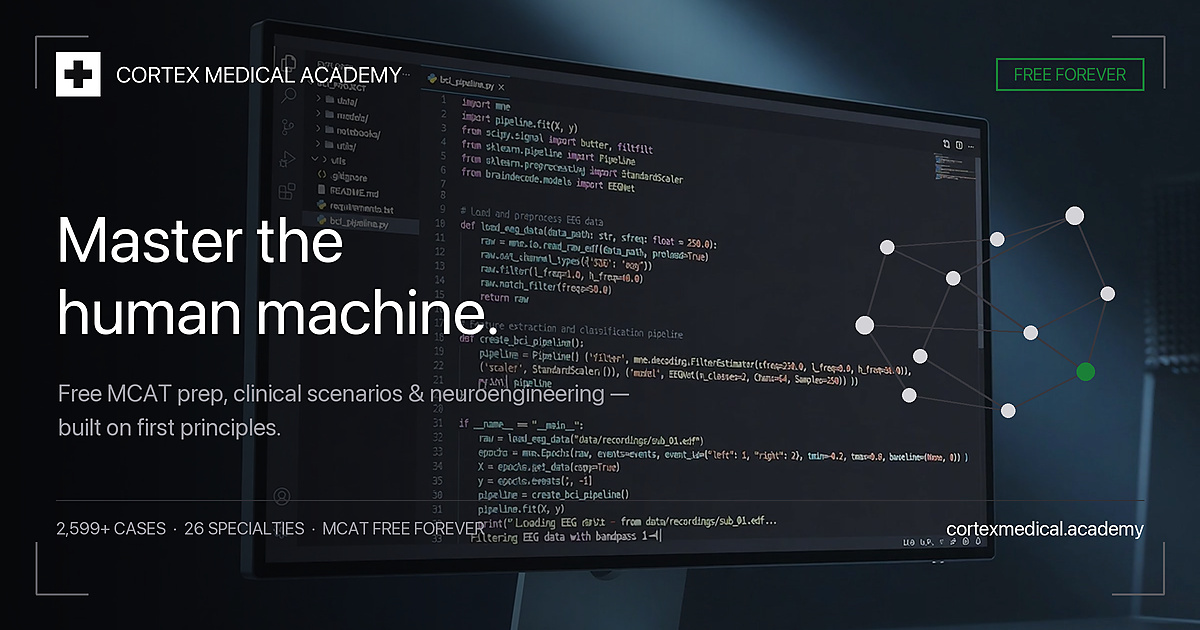
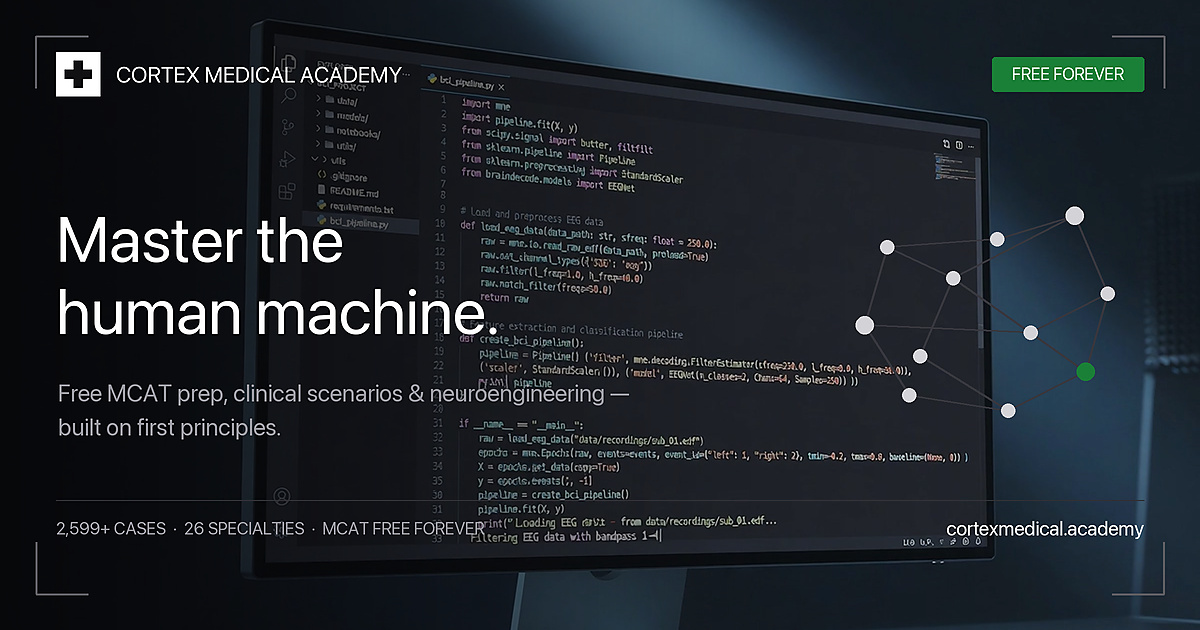
Polish OG card: centered FREE FOREVER pill (og-v4)
- Green filled pill with white text, rounded corners
- Center-anchored bbox + optical vertical nudge
- Meta tags point to og-v4.jpg for X cache bust

Changed region(s): [[0.8017, 0.0905, 0.9558, 0.1508]]

diff --git a/index.html b/index.html
@@ -9,7 +9,7 @@
   <meta name="twitter:creator" content="@Kevin_Vigil">
   <meta name="twitter:title" content="Cortex Medical Academy — MCAT, Clinical Scenarios &amp; Neuroengineering">
   <meta name="twitter:description" content="Evidence-based MCAT prep, free forever. Clinical scenarios across 26 specialties. Neuroengineering course with BCI Builder Path and Python OJT labs.">
-  <meta name="twitter:image" content="https://cortexmedical.academy/og-v3.jpg">
+  <meta name="twitter:image" content="https://cortexmedical.academy/og-v4.jpg">
   <meta name="twitter:image:width" content="1200">
   <meta name="twitter:image:height" content="630">
   <meta property="og:type" content="website">
@@ -17,13 +17,13 @@
   <meta property="og:url" content="https://cortexmedical.academy/">
   <meta property="og:title" content="Cortex Medical Academy — MCAT, Clinical Scenarios &amp; Neuroengineering">
   <meta property="og:description" content="Evidence-based MCAT prep, free forever. Clinical scenarios across 26 specialties. Neuroengineering course with BCI Builder Path and Python OJT labs.">
-  <meta property="og:image" content="https://cortexmedical.academy/og-v3.jpg">
-  <meta property="og:image:secure_url" content="https://cortexmedical.academy/og-v3.jpg">
+  <meta property="og:image" content="https://cortexmedical.academy/og-v4.jpg">
+  <meta property="og:image:secure_url" content="https://cortexmedical.academy/og-v4.jpg">
   <meta property="og:image:type" content="image/jpeg">
   <meta property="og:image:width" content="1200">
   <meta property="og:image:height" content="630">
   <meta property="og:image:alt" content="Cortex Medical Academy — Master the human machine. Free MCAT prep, clinical scenarios, and neuroengineering.">
-  <link rel="image_src" href="https://cortexmedical.academy/og-v3.jpg">
+  <link rel="image_src" href="https://cortexmedical.academy/og-v4.jpg">
   <title>Free MCAT Prep — Practice Questions, Flashcards & CARS | Cortex Medical Academy</title>
   <meta name="description" content="Free, evidence-based MCAT prep: 260+ practice questions with answer breakdowns, 500+ spaced-repetition flashcards, original CARS & science passages, and full-length exam simulation. No account, no paywall — free forever.">
   <meta name="keywords" content="free MCAT prep, MCAT practice questions, MCAT flashcards, CARS practice, MCAT science passages, MCAT exam simulator, free MCAT study, MCAT spaced repetition">
@@ -43,7 +43,7 @@
         "@id": "https://cortexmedical.academy/#org",
         "name": "Cortex Medical Academy",
         "url": "https://cortexmedical.academy/",
-        "logo": "https://cortexmedical.academy/og-v3.jpg",
+        "logo": "https://cortexmedical.academy/og-v4.jpg",
         "description": "Free, evidence-based MCAT preparation and clinical training — built on first principles, free for everyone.",
         "founder": { "@type": "Person", "name": "Kevin Vigil" },
         "sameAs": ["https://x.com/kevin__vigil"]

diff --git a/share.html b/share.html
@@ -10,15 +10,15 @@
   <meta name="twitter:site" content="@Kevin_Vigil">
   <meta name="twitter:title" content="Cortex Medical Academy — MCAT, Clinical Scenarios &amp; Neuroengineering">
   <meta name="twitter:description" content="Evidence-based MCAT prep, free forever. Clinical scenarios across 26 specialties. Neuroengineering with BCI Builder Path and Python OJT labs.">
-  <meta name="twitter:image" content="https://cortexmedical.academy/og-v3.jpg">
+  <meta name="twitter:image" content="https://cortexmedical.academy/og-v4.jpg">
   <meta name="twitter:image:width" content="1200">
   <meta name="twitter:image:height" content="630">
   <meta property="og:type" content="website">
   <meta property="og:url" content="https://cortexmedical.academy/share">
   <meta property="og:title" content="Cortex Medical Academy — MCAT, Clinical Scenarios &amp; Neuroengineering">
   <meta property="og:description" content="Evidence-based MCAT prep, free forever. Clinical scenarios across 26 specialties. Neuroengineering with BCI Builder Path and Python OJT labs.">
-  <meta property="og:image" content="https://cortexmedical.academy/og-v3.jpg">
-  <meta property="og:image:secure_url" content="https://cortexmedical.academy/og-v3.jpg">
+  <meta property="og:image" content="https://cortexmedical.academy/og-v4.jpg">
+  <meta property="og:image:secure_url" content="https://cortexmedical.academy/og-v4.jpg">
   <meta property="og:image:type" content="image/jpeg">
   <meta property="og:image:width" content="1200">
   <meta property="og:image:height" content="630">

diff --git a/scripts/generate-social-card.py b/scripts/generate-social-card.py
@@ -14,6 +14,7 @@ OUT = ROOT / "social-card.png"
 OG_JPG = ROOT / "og.jpg"
 OG_V2 = ROOT / "og-v2.jpg"
 OG_V3 = ROOT / "og-v3.jpg"
+OG_V4 = ROOT / "og-v4.jpg"
 VIDEO = ROOT / "assets" / "neuro-bg.mp4"
 FRAME = ROOT / "scripts" / ".og-frame.jpg"
 
@@ -141,21 +142,33 @@ def draw_outlined_pill(
     text: str,
     font: ImageFont.FreeTypeFont,
     *,
-    right: int,
-    top: int,
+    cx: int,
+    cy: int,
     pad_x: int,
     pad_y: int,
     outline: tuple[int, int, int],
-    fill: tuple[int, int, int],
+    text_fill: tuple[int, int, int],
+    bg_fill: tuple[int, int, int] | None,
     border: int,
-) -> None:
-    bbox = draw.textbbox((0, 0), text, font=font)
+    radius: int = 0,
+) -> tuple[int, int, int, int]:
+    """Draw a pill centered on (cx, cy). Returns the outer bounding box."""
+    bbox = draw.textbbox((0, 0), text, font=font, anchor="mm")
     tw, th = bbox[2] - bbox[0], bbox[3] - bbox[1]
-    x1, y1 = right, top
-    x0, y0 = right - (tw + pad_x * 2), top
-    y1 = top + th + pad_y * 2
-    draw.rectangle((x0, y0, x1, y1), outline=outline, width=border)
-    draw.text(((x0 + x1) // 2, (y0 + y1) // 2), text, font=font, fill=fill, anchor="mm")
+    pill_w = tw + pad_x * 2
+    pill_h = th + pad_y * 2
+    x0 = cx - pill_w // 2
+    y0 = cy - pill_h // 2
+    x1 = x0 + pill_w
+    y1 = y0 + pill_h
+    box = (x0, y0, x1, y1)
+    if radius > 0:
+        draw.rounded_rectangle(box, radius=radius, outline=outline, fill=bg_fill, width=border)
+    else:
+        draw.rectangle(box, outline=outline, fill=bg_fill, width=border)
+    # Nudge up slightly so uppercase labels look optically centered in the box.
+    draw.text((cx, cy - max(1, border // 4)), text, font=font, fill=text_fill, anchor="mm")
+    return box
 
 
 def wrap_text(draw: ImageDraw.ImageDraw, text: str, font: ImageFont.FreeTypeFont, max_w: int) -> list[str]:
@@ -210,21 +223,25 @@ def render_card() -> Image.Image:
         anchor="lm",
     )
 
-    pill_bbox = draw.textbbox((0, 0), "FREE FOREVER", font=font_pill)
-    pill_pad_x, pill_pad_y = 18 * s, 10 * s
-    pill_h = (pill_bbox[3] - pill_bbox[1]) + pill_pad_y * 2
+    pill_pad_x, pill_pad_y = 20 * s, 11 * s
     mark_cy = header_y + mark_size // 2
+    pill_label = "FREE FOREVER"
+    pill_bbox = draw.textbbox((0, 0), pill_label, font=font_pill, anchor="mm")
+    pill_w = (pill_bbox[2] - pill_bbox[0]) + pill_pad_x * 2
+    pill_cx = rw - margin - pill_w // 2
     draw_outlined_pill(
         draw,
-        "FREE FOREVER",
+        pill_label,
         font_pill,
-        right=rw - margin,
-        top=mark_cy - pill_h // 2,
+        cx=pill_cx,
+        cy=mark_cy,
         pad_x=pill_pad_x,
         pad_y=pill_pad_y,
         outline=GREEN,
-        fill=GREEN,
+        text_fill=WHITE,
+        bg_fill=GREEN,
         border=2 * s,
+        radius=3 * s,
     )
 
     head_x = margin
@@ -263,11 +280,13 @@ def main() -> int:
     img.save(OG_JPG, **jpg_opts)
     img.save(OG_V2, **jpg_opts)
     img.save(OG_V3, **jpg_opts)
+    img.save(OG_V4, **jpg_opts)
 
     print(f"Wrote {OUT} ({OUT.stat().st_size} bytes)")
     print(f"Wrote {OG_JPG} ({OG_JPG.stat().st_size} bytes)")
     print(f"Wrote {OG_V2} ({OG_V2.stat().st_size} bytes)")
     print(f"Wrote {OG_V3} ({OG_V3.stat().st_size} bytes)")
+    print(f"Wrote {OG_V4} ({OG_V4.stat().st_size} bytes)")
     return 0
 
 